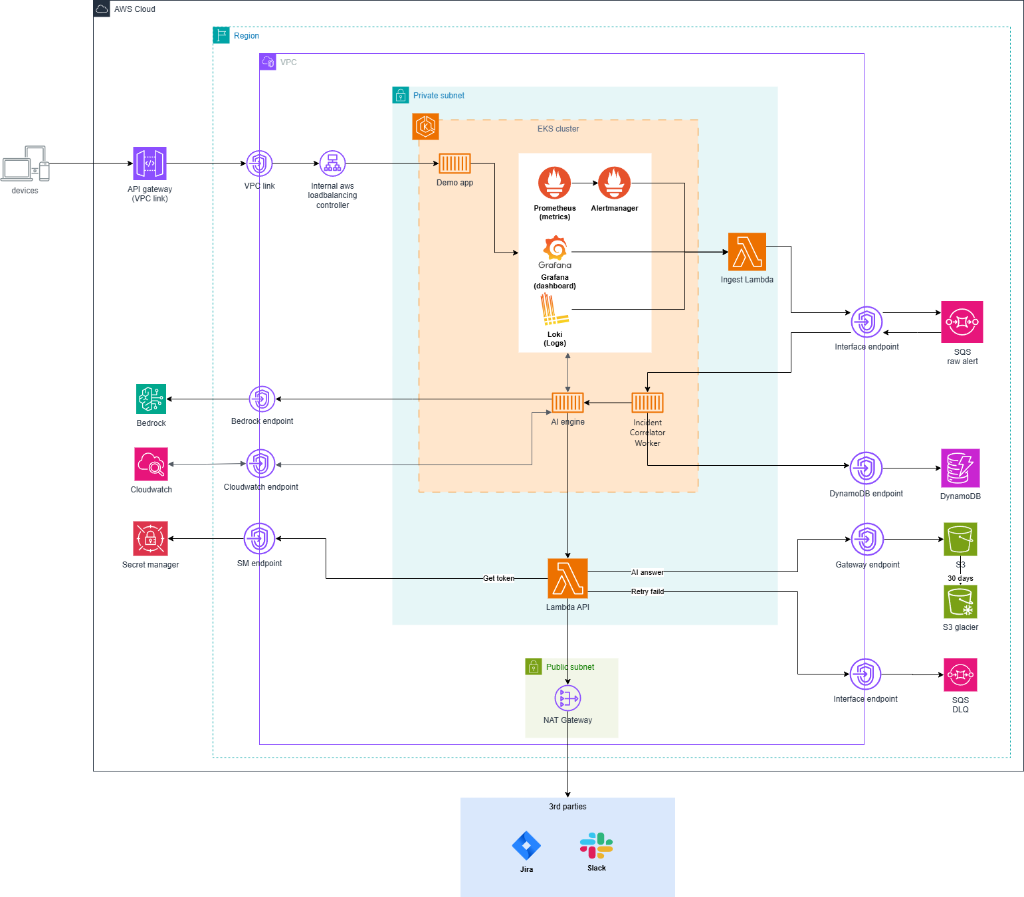
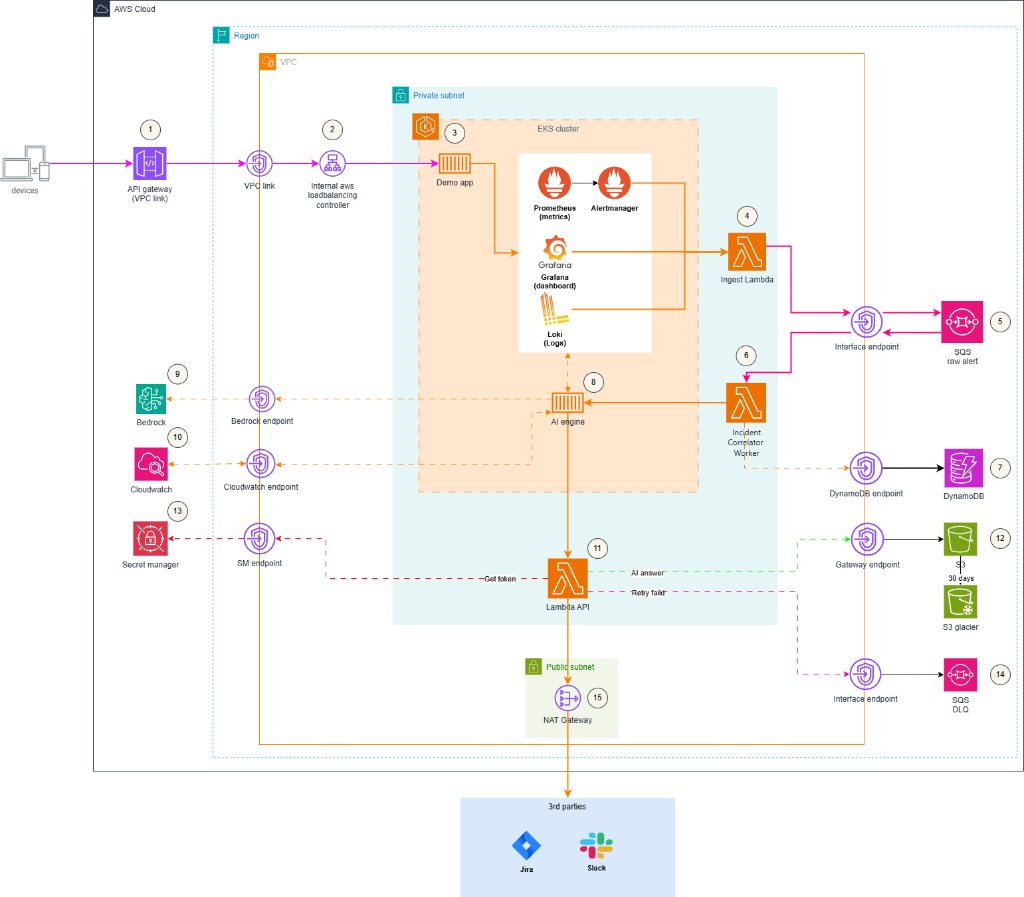
fix arch diagram ver2

diff --git a/docs/02_infra_design.md b/docs/02_infra_design.md
@@ -2,7 +2,7 @@
 
 ## 1. Architecture diagram
 
-![Architecture Diagram](assets/architecture-diagram.png)
+![Architecture Diagram](assets/infra-architecture-diagram.png)
 
 **Caption:**  
 This architecture uses Amazon EKS as the main runtime platform for the demo application, CDO Incident Correlator Worker, and Kubernetes-native observability stack. User traffic enters through an Application Load Balancer and reaches demo workloads running inside EKS.